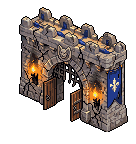
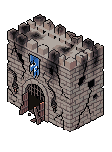
feat: PixelLab town_gate regenerated taller, filling its 2.0 x 1.1 plot

diff --git a/docs/pixellab_structures_log.md b/docs/pixellab_structures_log.md
@@ -161,3 +161,15 @@ Target: the TownMap_Component4 wall box (310,66,535,250), stone Lab (47.4, 4.4, 
 Applied per set (intact first): town_tower, town_tower_corner, town_gate, and town_wall's run_intact/run_damaged/run_ruins, then the strip re-tiled with `tile ... 41,83 1.5 2.7` (re-tiling the old runs with these values reproduces the old stills pixel for pixel; new output size [152, 172], anchor [127.4, 126.2], as in the manifest). town_postern copies town_wall's stills byte for byte.
 
 Stone mean RGB (intact) before → after: town_tower (103, 115, 124) → (120, 109, 107); town_tower_corner (134, 126, 125) → (124, 113, 111); town_wall (119, 110, 107) → (118, 107, 105); town_gate (126, 113, 108) → (122, 110, 106). Max pairwise distance intact 33.2 → 10.7, damaged 26.0 → 4.7, ruins 24.0 → 16.7 (ruins keep their own rubble/scorch mix). Glow unchanged: town_tower 2.3%, corner 0.3%, gate 3.3% / 2.2%, walls 0%. Tests 1387 checks 0 failures; digest unchanged. Captures: main gate, side gate, corner south/east now read as one castle in one warm-grey stone.
+
+### Fix: a taller gatehouse
+
+User review 2: the gatehouse (~34 px of wall) looked tiny between the regenerated towers. Regenerated `town_gate` taller, filling its 2.0 x 1.1 plot. Composition ref: `render_sprite_refs.gd` with the manifest temporarily at size [112, 152], height 68 (a plain full-footprint block, bbox 6..105 = the diamond at the default anchor [70, 142], walls ~76 px incl. merlons); height put back to 34 afterwards (the Structure's own height, gameplay unchanged). reference.png = that render.
+
+| Set | Call | Prompt / refs | Seed | Cost | Result |
+|---|---|---|---|---|---|
+| town_gate | `generate` 112x152 | tall massive medieval stone gatehouse, one solid rectangular block of grey limestone; long left face with a big round-arched gateway, raised iron portcullis, two open wooden doors, a torch either side, blue fleur-de-lis banner above the arch; crenellated walkway along the whole top; both short end walls flat and full height; no towers; refs: reference.png (tall full-footprint block), style_ref.png (TownMap_Component4 gate), town_tower/intact.png (stone/merlons only) | 441 | 25 (443 → 418) | 4 images, same shape (00/01 grey, 02 slate, 03 pink). All ~0.88x the block: base x 14..98 vs diamond 6..105 (long side 56 px of 64, short side 28 of 35). Kept #00. Fitted locally (0 gens) by isometric strip duplication, no resampling: long axis +6 px (cut at the front corner x 70, the strip of plain wall/torch glow x 64..69 repeated, back of the roof moved along the axis), short axis +6 px (cut x 84 on the plain right face, roof line through (84, 56)): one merlon a little wider at the front corner, back parapet slightly denser. Base now x 8..105, front corner (70, 131) |
+| town_gate | `edit` (damaged) on intact | battle damage: cracked/missing blocks, broken merlons, scorch, torn banner, torches out and smoking, a door hanging broken; same size and position | 442 | 20 (418 → 398) | 2 near-identical images; kept edit_00. Came back (+4, +3): moved (-4, -3); a smoke wisp at x < 7 cleared (it ran off the canvas edge). Silhouette then matches intact |
+| town_gate | `edit` (ruins) on damaged | destroyed: short wall stumps on the same base, arch collapsed, rubble heap, broken door and torn banner on the rubble, nothing floating | 443 | 20 (398 → 378) | 2 identical images; the stumps came back on a squarer base filling the whole 112 px canvas (front corner (60, 117), short side 52 px). Fitted locally: short axis -16 px (slab of rubble/stump dropped beyond x 84 / roof line through (84, 94)), moved (+10, +14), long axis +4 px (cut x 36). Base x 6..105, front corner (70, 131) |
+
+town_gate total: 65 generations (443 → 378; floor 373). Manifest: size [112, 152], anchor [70, 131] (overlays at y 129/131/133; 131 puts the diamond on the base: left corner art (8, 101) vs diamond (6, 99), right (105, 114) vs (105.2, 113.4), front (70, 131) on the anchor). Height: merlon top at the left/right ends 71 / 68 px above the base, sprite top 117 px above the anchor (town_tower: 168 → 0.70; wall faces 71 vs the tower's ~120 → 0.59). **Walkway (parapet walk, the crenel floor) ~62 px above the base** (merlons ~9 px tall above it). Stone: `harmonize "concepts/TOWN REF/TownMap_Component4.png" 310,66,535,250` on intact; damaged and ruins harmonized each on their own statistics (the edits came back darker, and with intact's statistics they went brown, (103, 92, 85)): stone mean RGB intact (137, 128, 127) → (126, 114, 111), damaged (118, 110, 107) → (123, 110, 107), ruins (115, 107, 102) → (123, 111, 107). Glow 0.2% / 0% / 0%. No collapse (engine sink). Captures: main and side gate show a substantial gatehouse between the towers, its walkway ends meeting the tower faces.
